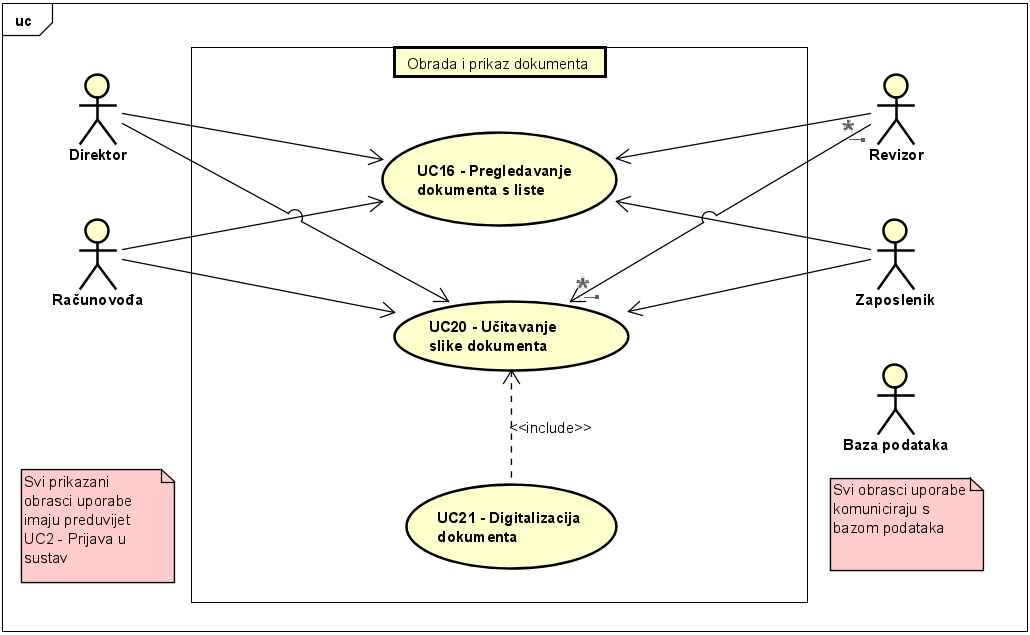
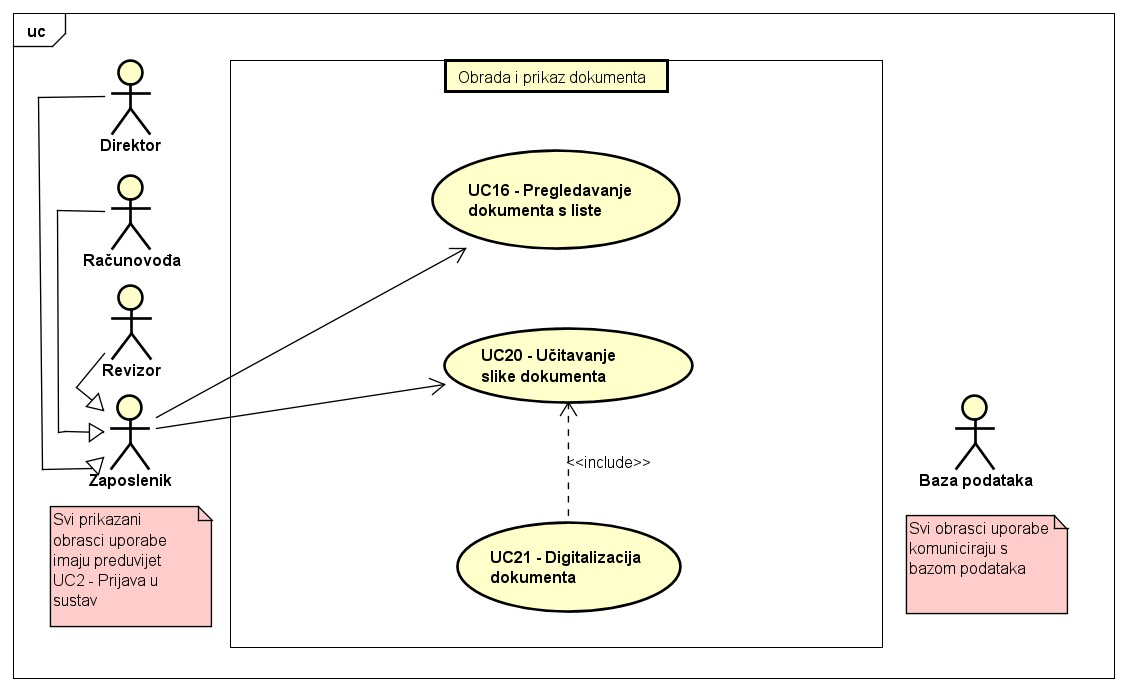
Postavljene nove slike za poglavlje 3.1.1

diff --git a/Dokumentacija/Specifikacija_programske_potpore.tex b/Dokumentacija/Specifikacija_programske_potpore.tex
@@ -627,7 +627,7 @@
 					\end{figure}
 					
 					\begin{figure}[H]
-						\includegraphics[width=\textwidth]{slike/3.1.1 dijagrami/PregledIManipulacijaDokumentima_v2.PNG}
+						\includegraphics[width=\textwidth]{slike/3.1.1 dijagrami/PregledManipulacijaDokumentima.PNG}
 						\caption{Dijagram obrasca uporabe, funkcionalnost svih aktora}
 						\label{Obrazac2} 
 					\end{figure}
